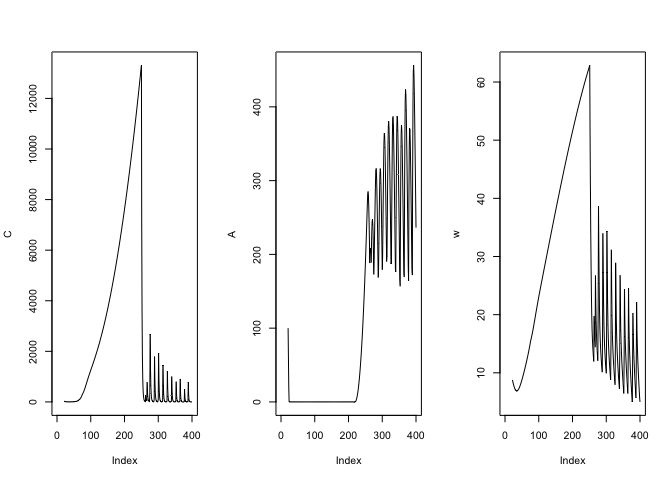
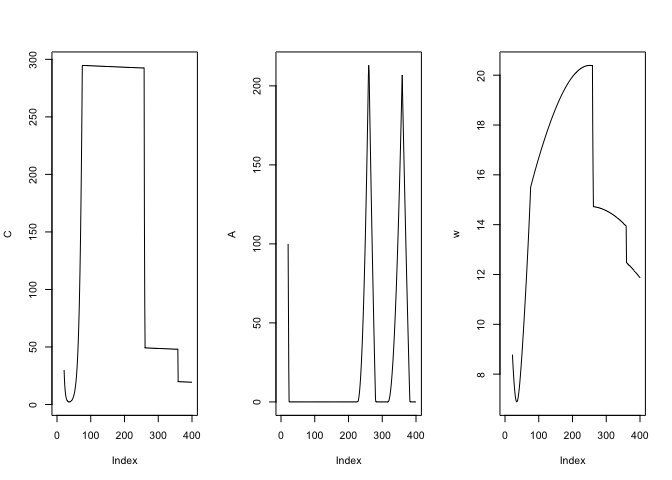
add phase indicator

diff --git a/project.md b/project.md
@@ -22,9 +22,14 @@ mu <- 0.1
 dep <- 0.3 # capital depreciation
 eps <- rnorm(1, mean = 0, sd = .02)
 sigm <- 0.6
+rn <- 0.3
+K <- 100000
+d_Nbase <- 0.1
 
 N_test <- seq(40, by = 2, length.out = T_len)  
-C_test <- seq(30, by = 3, length.out = T_len)   
+#C_test <- seq(30, by = 3, length.out = T_len)   
+
+phi <- unique(c(0, 1, 2, 3)) # phase indicator
 ```
 
 ``` r
@@ -68,7 +73,7 @@ for (t in (t0+1):T_len) {
   theta_t <- theta[t]
   Z_t <- Z[t]
   
-  w_sol[t] <- uniroot(solver, lower = 1 , upper = 1000, 
+  w_sol[t] <- uniroot(solver, lower = w_min , upper = 1000, 
                       w0 = w0, k = k, psi_max = psi_max, N_lag = N_lag,
                       nu = nu, alpha = alpha, theta = theta_t, Z = Z_t, C_prev = C_prev)$root
   w[t] <- max(w_sol[t], w_min)
@@ -86,13 +91,15 @@ for (t in (t0+1):T_len) {
   
   C[t] <- C_prev +.2*rho - dep*C_prev + eps
   if (C[t]>10*C[t0]) {
-    C[t] <- C_prev + .2*rho - dep_t*C_prev + eps
+    C[t] <- C_prev + eps
   }
   
   A[t] <-  max(0, A_prev + mu*(rho/w[t]) + lambda*(R1[t-tau]) - gamma*W)
   if (A[t]>W) {
     C[t] <- C_prev + t_rho*rho - dep_t*C_prev + eps
   }
+  
+  #N[t] <- N_prev + rn*(N_prev/K) - dn*N_prev
   
 }
 ```
@@ -101,14 +108,14 @@ for (t in (t0+1):T_len) {
 summary(C) ; summary(w) ; summary(A)
 ```
 
-    ##      Min.   1st Qu.    Median      Mean   3rd Qu.      Max.      NA's 
-    ##    -0.003    16.576   494.085  2571.152  4072.103 13304.818        20
+    ##    Min. 1st Qu.  Median    Mean 3rd Qu.    Max.    NA's 
+    ##   2.256  48.133 141.986 163.059 293.536 294.723      20
 
     ##    Min. 1st Qu.  Median    Mean 3rd Qu.    Max.    NA's 
-    ##    5.00   11.72   19.86   26.35   40.30   62.85      21
+    ##   6.884  13.992  14.721  15.617  19.110  20.393      21
 
     ##    Min. 1st Qu.  Median    Mean 3rd Qu.    Max.    NA's 
-    ##     0.0     0.0     0.0   117.0   247.5   456.2      20
+    ##    0.00    0.00    0.00   25.89   17.91  212.93      20
 
 ``` r
 par(mfrow = c(1,3))
